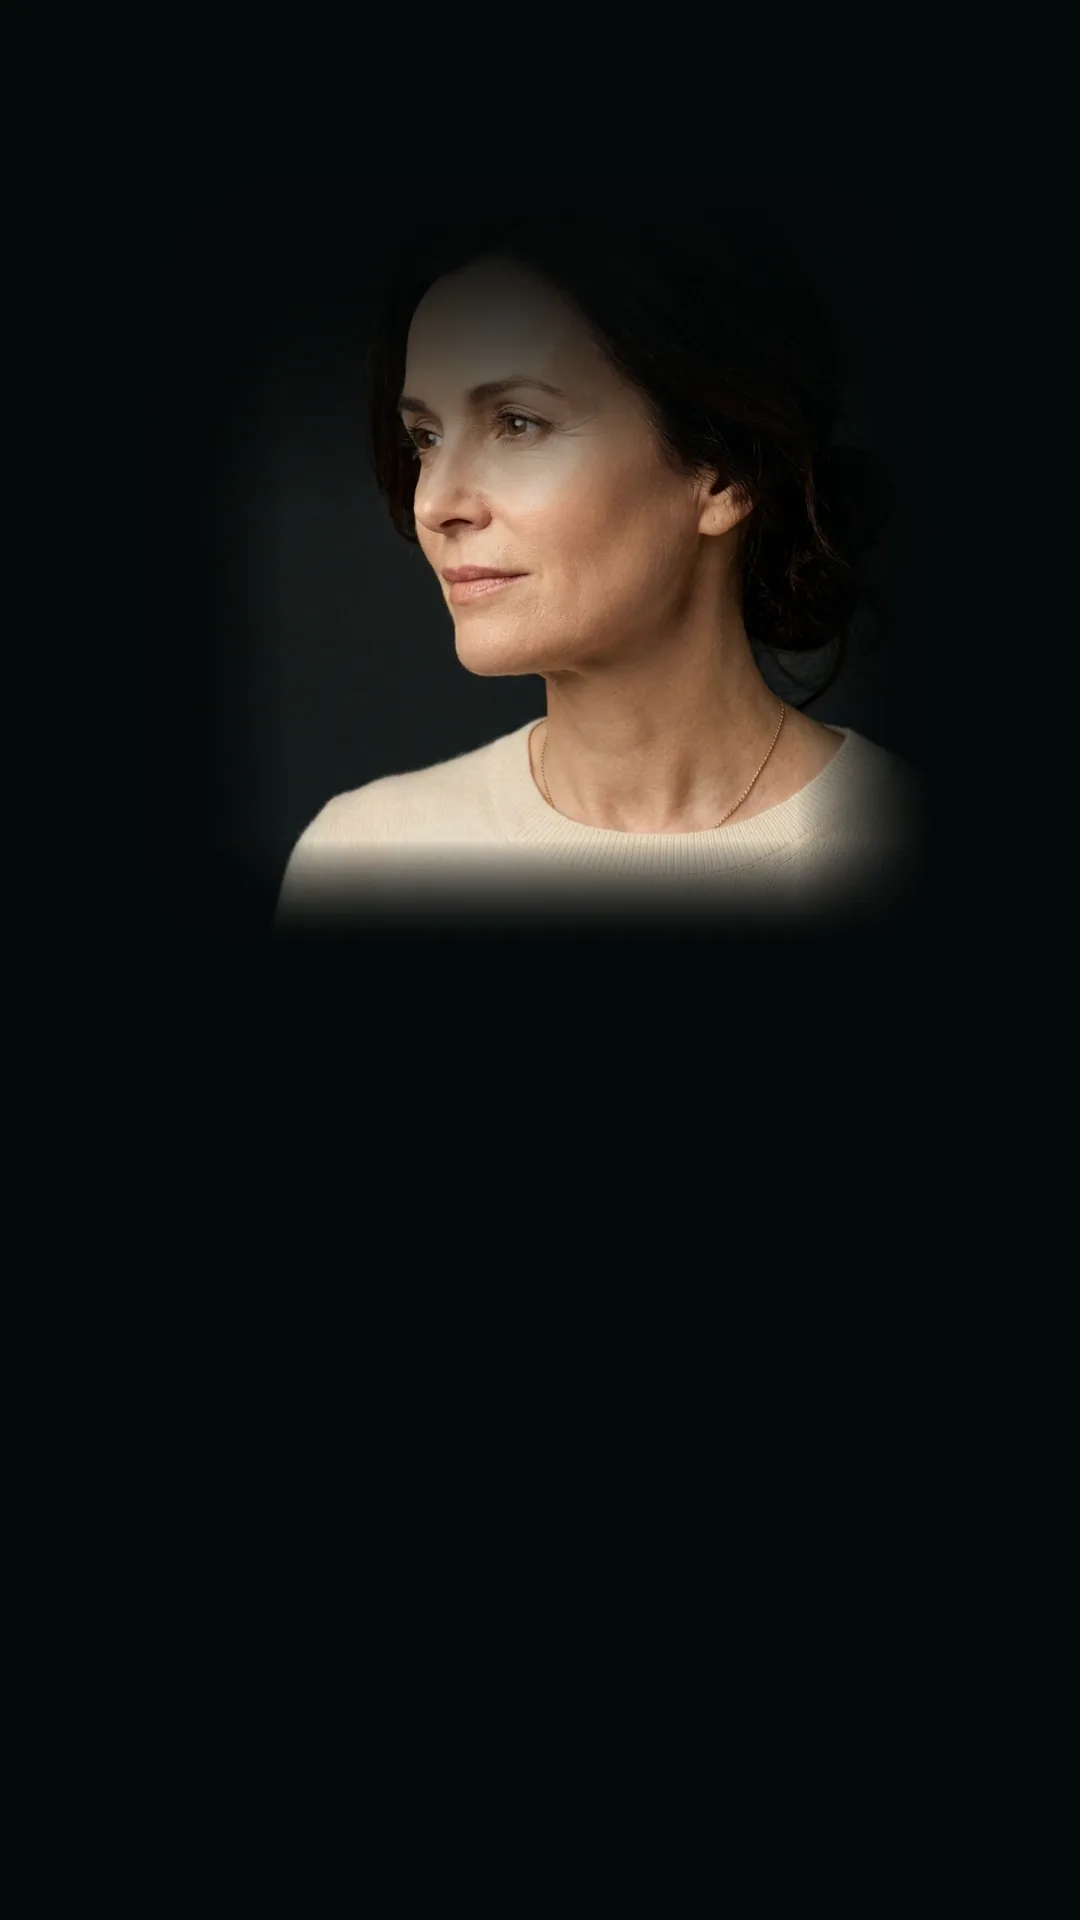
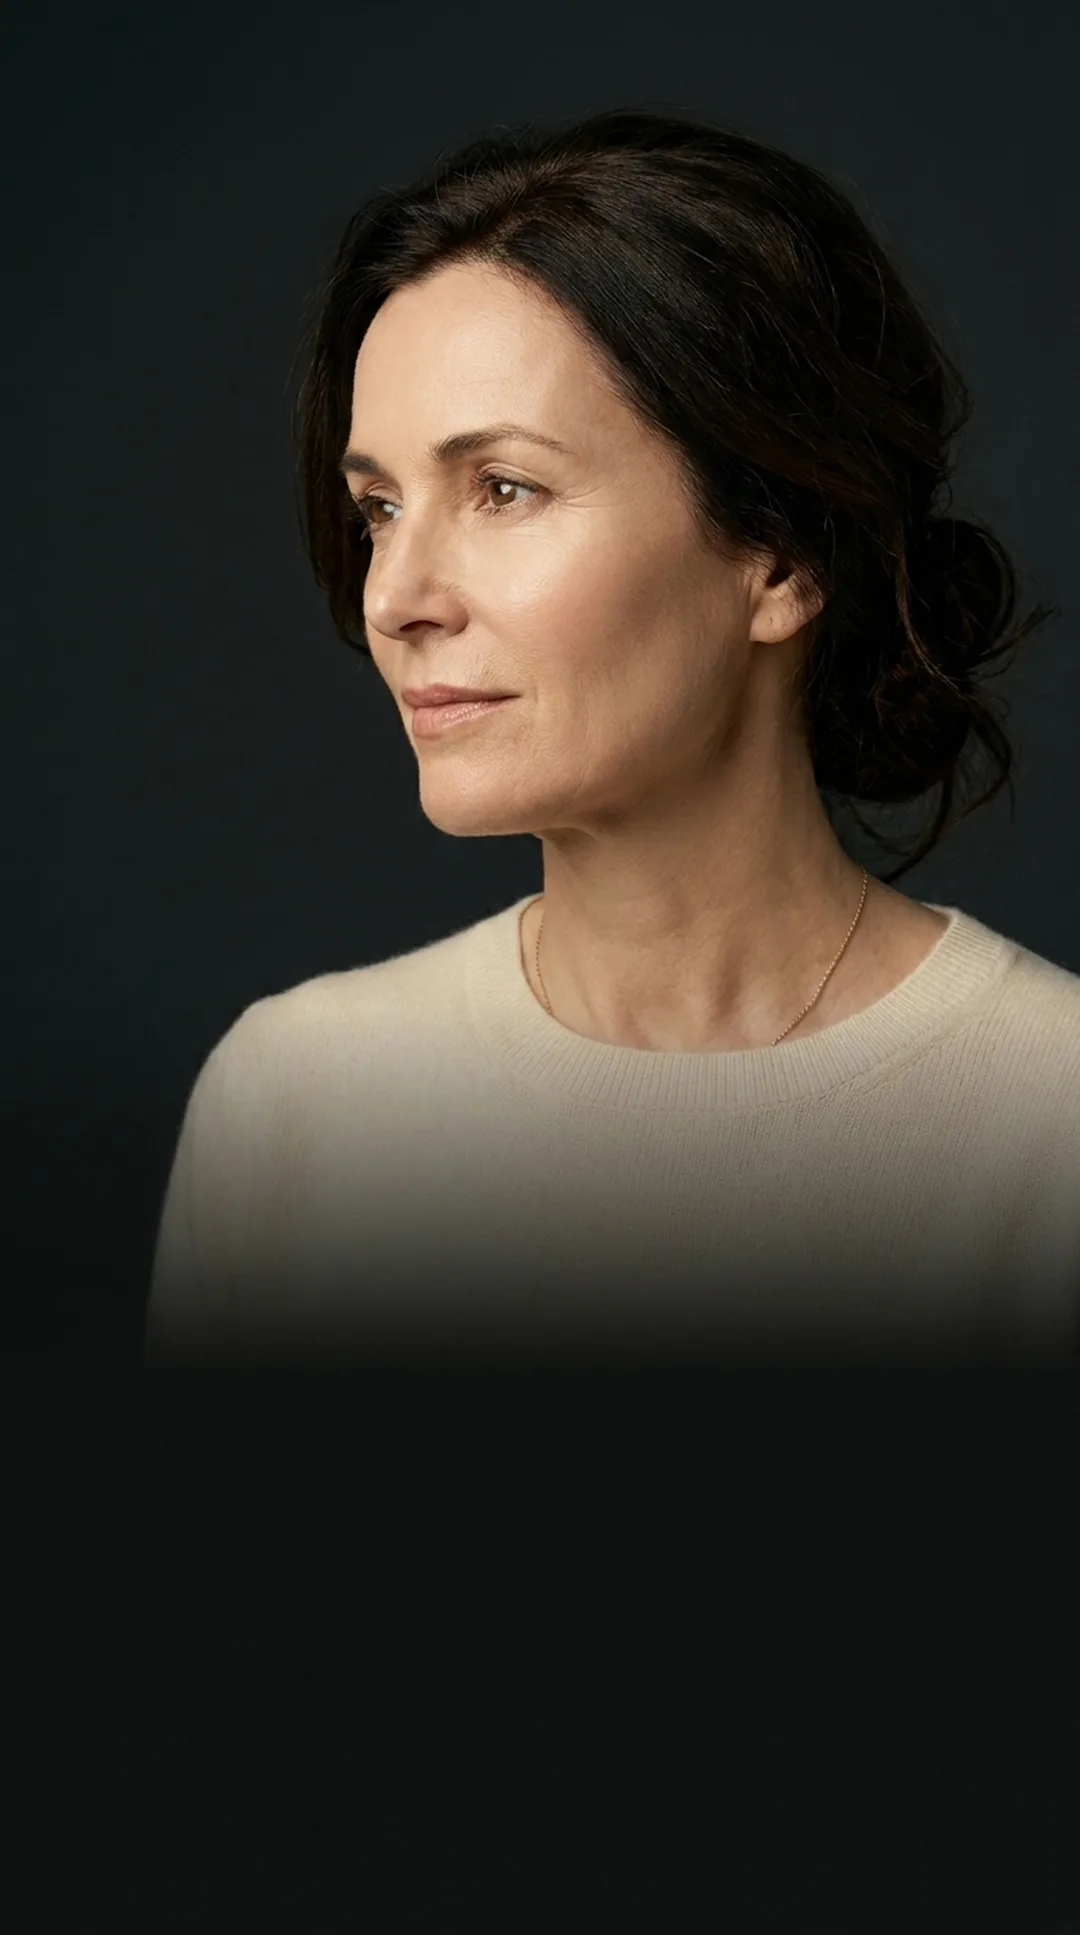
Goldstandard-Mobile-Hero: natives 9:16-Outpaint derselben Frau statt Querformat-Crop
Problem (User): oberer Kopf fadete ins Schwarz — Ursache war ein aus dem 1376x768-
Querformat gecropptes Porträt mit synthetischem dunklem Federrand über dem Haar plus
ein 50%-Overlay-Schleier oben. CSS-only nicht heilbar (Federrand steckt im Bild).

3-Perspektiven-Gremium (Art-Direction/Frontend/Brand) → einstimmig OUTPAINTING:
- Per Gemini (Bild-Editing) das Desktop-Hero zu nativem 9:16 erweitert — DIESELBE Frau
  (Desktop↔Mobile-Kontinuität), voller Kopf mit Kopffreiheit, Gesicht hoch, untere
  Bildhälfte löst sich ins Tiefdunkel als sauberes Textbett auf. b-hero-mobile.webp (51 KB).
- CSS: Overlay neu unten-gewichtet (to top, oben transparent → Kopf nicht mehr verdunkelt),
  Bild zentriert (object-position 50% center statt 50% 8%), opacity 1, schmaler Nav-Scrim
  (::before, ≤12vh, erreicht die Krone nie).
- gemini.py: Bild-Editing/Outpainting-Support (inline_data-Input, `edit`-Befehl, batch "image").
Auf 360/390/414 visuell verifiziert; WP-Theme parallel nachgezogen.

diff --git a/assets/style-b.css b/assets/style-b.css
@@ -379,8 +379,13 @@ p, .b-lead { text-wrap: pretty; }
   .b-nav.open .b-nav-toggle span:nth-child(2) { opacity: 0; }
   .b-nav.open .b-nav-toggle span:nth-child(3) { transform: translateY(-7px) rotate(-45deg); }
   .b-hero { align-items: flex-end; padding-bottom: clamp(3rem,10vw,5rem); padding-top: calc(5rem + env(safe-area-inset-top,0px)); }
-  .b-hero-bg img { object-position: 60% center; }
-  .b-hero-bg::after { background: linear-gradient(0deg, var(--noir) 6%, rgba(23,19,15,0.55) 46%, rgba(23,19,15,0.5) 100%); }
+  .b-hero-bg img { object-position: 50% center; }
+  /* Overlay: unten dunkle Textzone, oben KLAR — der Kopf wird nicht mehr verdunkelt. */
+  .b-hero-bg::after { background: linear-gradient(to top,
+    var(--noir) 0%, rgba(23,19,15,0.90) 24%, rgba(23,19,15,0.45) 46%, rgba(23,19,15,0.10) 64%, rgba(23,19,15,0) 78%); }
+  /* Schmaler Nav-Scrim nur ganz oben (erreicht die Haarkrone nie), für Wortmarke/Burger-Kontrast. */
+  .b-hero-bg::before { content: ""; position: absolute; inset: 0 0 auto 0; height: 12vh; z-index: 1; pointer-events: none;
+    background: linear-gradient(to bottom, rgba(23,19,15,0.5), transparent); }
   /* Scroll-Hinweis auf Touch ausblenden (überlagerte sonst die Buttons im bottom-aligned Hero) */
   .b-scroll { display: none; }
   .b-serv { grid-template-columns: 1fr; }
@@ -404,8 +409,9 @@ p, .b-lead { text-wrap: pretty; }
   .bk-week { grid-template-columns: repeat(3, 1fr); }
   .bk-steps .lbl { display: none; }
   .bk-steps { justify-content: center; }
-  /* Portrait-Hero (4:5): Gesicht oben halten, dunkle Textzone unten zeigen */
-  .b-hero-bg img { object-position: 50% 8%; transform-origin: 50% 30%; }
+  /* Vertikales Porträt (9:16): voller Kopf mit Kopffreiheit; vertikales Framing lebt im ASSET
+     (cover fittet bei 100svh immer nach Höhe → object-position-Y inert, daher horizontal zentriert). */
+  .b-hero-bg img { object-position: 50% center; transform-origin: 52% 34%; opacity: 1; }
 }
 @media (max-width: 480px) {
   .bk-week { grid-template-columns: repeat(2, 1fr); }

diff --git a/tools/gemini.py b/tools/gemini.py
@@ -4,9 +4,10 @@ Reads key from E:/Freelance/.env.
 Usage:
   python gemini.py list
   python gemini.py gen "<prompt>" <outfile> [model] [aspect]
-  python gemini.py batch <spec.json> <outdir>
+  python gemini.py edit "<prompt>" <infile> <outfile> [model] [aspect]
+  python gemini.py batch <spec.json> <outdir>            (spec items may carry "image": "<path>" for editing)
 """
-import sys, json, base64, urllib.request, urllib.error, re, os
+import sys, json, base64, urllib.request, urllib.error, re, os, mimetypes
 from concurrent.futures import ThreadPoolExecutor, as_completed
 
 ENV = r"E:/Freelance/.env"
@@ -67,10 +68,37 @@ def gen(prompt, outfile, model="gemini-2.5-flash-image", aspect=None):
         return True, f"{n} bytes"
     return False, f"no image part: {json.dumps(j)[:300]}"
 
+def _b64_image(path):
+    mt = mimetypes.guess_type(path)[0] or "image/jpeg"
+    with open(path, "rb") as f:
+        return mt, base64.b64encode(f.read()).decode()
+
+def gen_edit(prompt, infile, outfile, model="gemini-3-pro-image", aspect=None):
+    """Bild-Editing/Outpainting: Input-Bild + Text-Prompt → neues Bild."""
+    url = f"{BASE}/models/{model}:generateContent?key={KEY}"
+    gcfg = {"responseModalities": ["IMAGE"]}
+    if aspect:
+        gcfg["imageConfig"] = {"aspectRatio": aspect}
+    mt, b64 = _b64_image(infile)
+    body = {"contents": [{"parts": [
+        {"inline_data": {"mime_type": mt, "data": b64}},
+        {"text": prompt},
+    ]}], "generationConfig": gcfg}
+    st, j = http(url, body, "POST")
+    if st != 200:
+        return False, f"HTTP {st}: {json.dumps(j)[:300]}"
+    n = _save_first_image(j, outfile)
+    if n:
+        return True, f"{n} bytes"
+    return False, f"no image part: {json.dumps(j)[:300]}"
+
 def one(item, outdir, default_model):
     out = os.path.join(outdir, item["filename"])
     model = item.get("model", default_model)
-    ok, msg = gen(item["prompt"], out, model, item.get("aspect"))
+    if item.get("image"):
+        ok, msg = gen_edit(item["prompt"], item["image"], out, model, item.get("aspect"))
+    else:
+        ok, msg = gen(item["prompt"], out, model, item.get("aspect"))
     return item["slot"], ok, msg, model
 
 def batch(specfile, outdir, default_model="gemini-3-pro-image", workers=3):
@@ -97,6 +125,13 @@ if __name__ == "__main__":
         model = sys.argv[4] if len(sys.argv) > 4 else "gemini-2.5-flash-image"
         aspect = sys.argv[5] if len(sys.argv) > 5 else None
         ok, msg = gen(prompt, outfile, model, aspect)
+        print(("OK " if ok else "FAIL ") + msg)
+        sys.exit(0 if ok else 1)
+    elif cmd == "edit":
+        prompt, infile, outfile = sys.argv[2], sys.argv[3], sys.argv[4]
+        model = sys.argv[5] if len(sys.argv) > 5 else "gemini-3-pro-image"
+        aspect = sys.argv[6] if len(sys.argv) > 6 else None
+        ok, msg = gen_edit(prompt, infile, outfile, model, aspect)
         print(("OK " if ok else "FAIL ") + msg)
         sys.exit(0 if ok else 1)
     elif cmd == "batch":

diff --git a/STAND.md b/STAND.md
@@ -25,8 +25,12 @@
   stapeln statt überlaufen, Anker-Offset (Überschriften nicht mehr unter der Nav), Tap-Ziele ≥ 44 px,
   klickbare `tel:`/`mailto:`-Footer, Formular-`label`/`for`/`autocomplete`/`inputmode`, Touch-`:active`-
   Feedback ohne „klebendes" Hover, vollständiges `prefers-reduced-motion`, Fokusführung & `role=status`.
-  Art-direktierter Smartphone-Hero (eigener 4:5-Crop) und Hero-Blickführung in die Headline. Mockup
-  **und** WP, jeweils real im Browser-Engine (CDP-Geräteemulation) verifiziert.
+  **Goldstandard-Smartphone-Hero (30.6.):** statt eines aus dem Querformat gecroppten Porträts (Krone
+  fadete ins Schwarz) ein per Gemini **ausgepaintetes natives 9:16-Porträt DERSELBEN Frau** wie auf
+  Desktop (Kontinuität gewahrt) — voller Kopf mit Kopffreiheit, Gesicht hoch, untere Bildhälfte löst
+  sich ins Tiefdunkel als Textbett auf; CSS-Overlay neu unten-gewichtet (Kopf nicht mehr verdunkelt) +
+  schmaler Nav-Scrim. 3-Perspektiven-Gremium (Art-Direction · Frontend · Brand) → einstimmig Outpainting;
+  auf 360/390/414 in Mockup **und** WP visuell verifiziert. Buchungs-/Anamnese-Strecke ebenso CDP-geprüft.
 
 ## Ausschreibungs-Scorecard (ehrlich, evidenzbasiert)
 